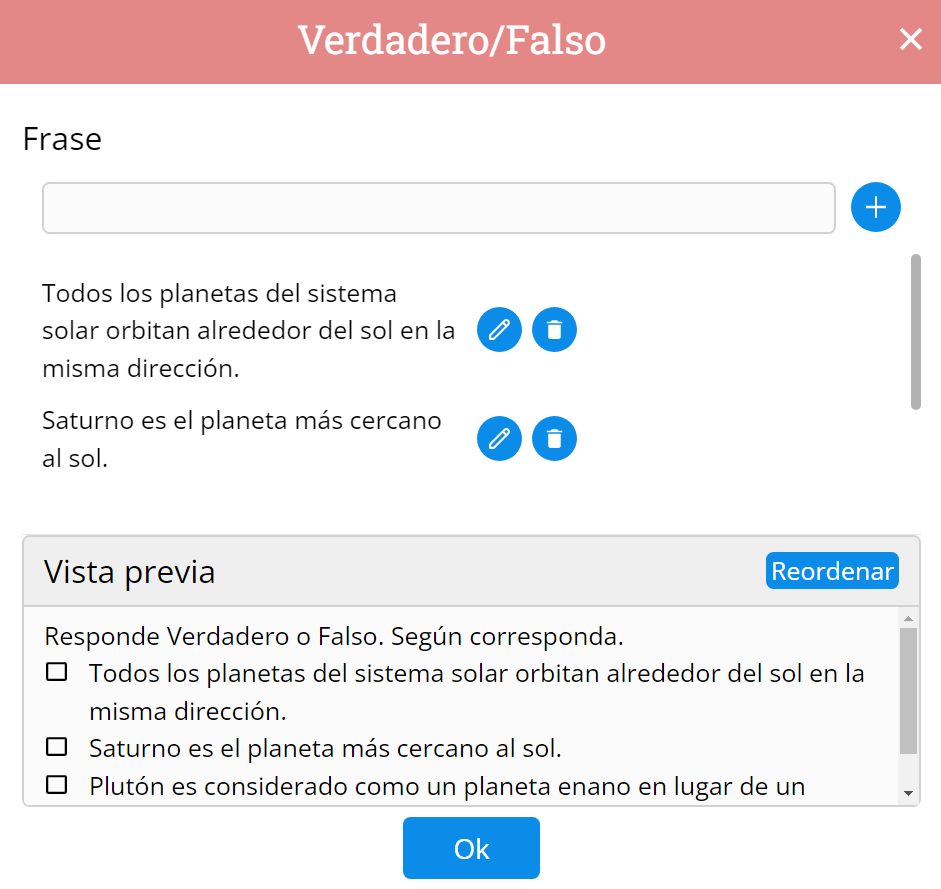
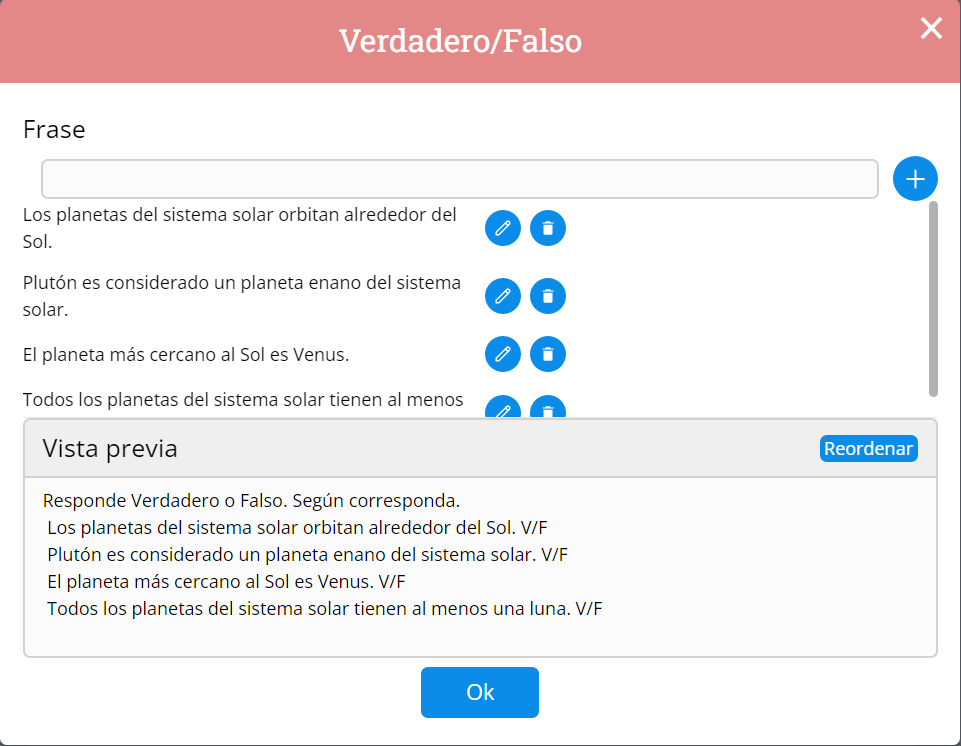
Memoria- correciones imagenes, codigo-correciones vyf

diff --git a/Codigo/client/src/components/Modal/TrueFalse/ModalTrueFalse.jsx b/Codigo/client/src/components/Modal/TrueFalse/ModalTrueFalse.jsx
@@ -52,7 +52,7 @@ export default function ModalTrueFalse({ editor, isOpen, onClose, openModal }) {
 		items.forEach((item) => {
 			const listItem = {
 				type: "paragraph",
-				children: [{ type: "icon", icon: <BiRectangle />, children: [{ text: "" }] }, { text: item }],
+				children: [ { text: item },{ text: "  V/F" }],
 			};
 
 			list.children.push(listItem);
@@ -144,10 +144,7 @@ export default function ModalTrueFalse({ editor, isOpen, onClose, openModal }) {
 								return (
 									<li key={`concepto-${i}`}>
 										<div className="flex items-start">
-											<div className="min-w-[2rem] pt-1">
-												<BiRectangle />
-											</div>
-											<p className="pl-1">{elem}</p>
+											<p className="pl-1">{elem} <span>V/F</span></p>
 										</div>
 									</li>
 								);

diff --git a/Memoria/Capitulos/AdaptaMaterialEscolar2.0.tex b/Memoria/Capitulos/AdaptaMaterialEscolar2.0.tex
@@ -270,24 +270,29 @@ Partimos del diseño de AdaptaMaterialEscolar 1.0. Dicho diseño tenía los mism
 
 \subsubsection{Ejercicios de espacio para dibujar}
 El diseño de esta funcionalidad se muestra en la Figura \ref{espaciosDibu}. En esta funcionalidad el usuario inicialmente tendrá que escribir el enunciado e indicar el espacio que desea dejar para dibujar. Además, incorpora una opción de recuadrar que hace un recuadro del tamaño indicado. El resultado de esta funcionalidad en el documento de trabajo se muestra en la Figura \ref{editable3} en el ejercicio 5.
-\begin{figure}[ht!]
-  \centering
-  \includegraphics[width=0.7\textwidth]{Diseño/espacioDibu.PNG}
-  \caption{Diseño final ejercicios espacios para dibujar.}
-  \label{espaciosDibu}
-\end{figure}
-\begin{figure}[ht!]
-  \centering
-  \includegraphics[width=0.55\textwidth]{Diseño/Leyenda.PNG}
-  \caption{Diseño final leyenda de colores.}
-  \label{LeyendaColores}
-\end{figure}
+
+
+
 
 
 
 \subsubsection{Leyenda de colores}
 El diseño final de esta funcionalidad se muestra en la Figura \ref{LeyendaColores} y para realizar esta funcionalidad no hemos basado en el diseño de todos los integrantes ya que son bastante parecidos. También hemos utilizado como referencia la funcionalidad de definir conceptos. En este caso cuando se añade un nuevo concepto también se ha de escoger un color para cada palabra. Además, se ha de incluir un título para la leyenda. La leyenda de color se situará en el documento de trabajo donde se encuentre el cursor y el usuario podrá ajustar su posicionamiento. El resultado de esta funcionalidad en el documento de trabajo se muestra en la Figura \ref{editable2} en el ejercicio 2.
 
+\begin{multicols}{2}
+  \begin{figure}[H]
+    \centering
+    \includegraphics[width=0.5\textwidth]{Diseño/espacioDibu.PNG}
+    \caption{Diseño final ejercicios espacios para dibujar.}
+    \label{espaciosDibu}
+  \end{figure}
+  \begin{figure}[H]
+    \centering
+    \includegraphics[width=0.4\textwidth]{Diseño/Leyenda.PNG}
+    \caption{Diseño final leyenda de colores.}
+    \label{LeyendaColores}
+  \end{figure}
+\end{multicols} 
 
 \subsubsection{Ejercicio de matemáticas con huecos}
 El diseño de esta funcionalidad se muestra en la Figura \ref{matesHueco} y para realizarla nos hemos basado en el diseño de Dunia Namour, (Figura \ref{dunia6}) y en la idea de Johan Salvatierra de que al pulsar la tecla \textit{espacio} se genere un hueco. Para introducir huecos en una fórmula matemática el usuario tendrá que darle a la barra espaciadora. Cuando termine de escribir la fórmula al darle al botón de \textit{OK} se introducirá en el documento de trabajo con un cuadrado vacío en cada hueco. El resultado de esta funcionalidad en el documento de trabajo se muestra en la Figura \ref{editable3} en el ejercicio 2.
@@ -416,28 +421,28 @@ Cabe mencionar que las opciones en las barras de herramientas de Ejercicios y Te
 
 \begin{figure}[h!]
   \centering
-  \includegraphics[width=0.7\textwidth]{Editor/Archivo.png}
+  \includegraphics[width=1\textwidth]{Editor/Archivo.png}
   \caption{Barra de herramienta de archivo.}
   \label{fig:barrraHerramientaArchivo}
 \end{figure}
 
 \begin{figure}[h!]
   \centering
-  \includegraphics[width=0.7\textwidth]{Editor/Formato.png}
+  \includegraphics[width=1\textwidth]{Editor/Formato.png}
   \caption{Barra de herramienta de formato.}
   \label{fig:barrraHerramientaFormato}
 \end{figure}
 
 \begin{figure}[h!]
   \centering
-  \includegraphics[width=0.7\textwidth]{Editor/Ejercicios.png}
+  \includegraphics[width=1\textwidth]{Editor/Ejercicios.png}
   \caption{Barra de herramienta de ejercicio.}
   \label{fig:barrraHerramientaEjercicios}
 \end{figure}
 
 \begin{figure}[h!]
   \centering
-  \includegraphics[width=0.7\textwidth]{Editor/Texto.png}
+  \includegraphics[width=1\textwidth]{Editor/Texto.png}
   \caption{Barra de herramienta de texto.}
   \label{fig:barrraHerramientaTexto}
 \end{figure}
@@ -594,14 +599,28 @@ Para esta funcionalidad se ha utilizado un campo de texto en el cual se introduc
 
 La vista previa se genera automáticamente y muestra el enunciado del ejercicio ``Responde Verdadero o Falso según corresponda.'' junto con las frases y un cuadrado. El botón de ``Reordenar'' aparecerá cuando haya más de dos frases en la vista previa. Para reordenar las frases, se aplica el algoritmo Sattolo Cycle\footnote{\url{https://rosettacode.org/wiki/Sattolo_cycle}} a una lista distinta de la inicial donde se encuentran todas las frases. Este algoritmo reorganiza los elementos de una lista de forma aleatoria, pero sin repetir el mismo elemento en la misma posición dos veces seguidas.
 
-Una vez que el usuario ha terminado de editar las frases, se puede enviar el ejercicio al documento de trabajo presionando el botón \textit{Ok}, el cual está inhabilitado al ingresar al modal.
+Una vez que el usuario ha terminado de editar las frases, se puede enviar el ejercicio al documento de trabajo presionando el botón \textit{Ok}, el cual está inhabilitado al ingresar al modal. En la Figura \ref{fig:veryfalso} se muestra la funcionalidad de verdadero y falso.
 
 \begin{figure}[ht!]
   \centering
-  \includegraphics[width=0.7\textwidth]{Funcionalidades/VyF.PNG}
-  \caption{Funcionalidad de verdadero y falso.}
-  \label{fig:vyf}
+  \begin{subfigure}{\textwidth}
+    \centering
+    \includegraphics[width=0.7\textwidth]{Funcionalidades/VyF.PNG}
+    \caption{Ventana modal de la funcionalidad de verdadero y falso.}
+    \label{fig:vyf}
+  \end{subfigure}
+ 
+  \begin{subfigure}{\textwidth}
+    \centering
+    \includegraphics[width=0.7\textwidth]{Funcionalidades/VyFEditor.PNG}
+    \caption{Ejemplo, en el documento de trabajo, de la funcionalidad de verdadero y falso.}
+    \label{fig:vyfEdit}
+  \end{subfigure}
+
+  \caption{Funcionalidad de verdadero y falso}
+  \label{fig:veryfalso}
 \end{figure}
+
 
 \subsubsection{Generar resumen}
 \label{sec:impresumen}
